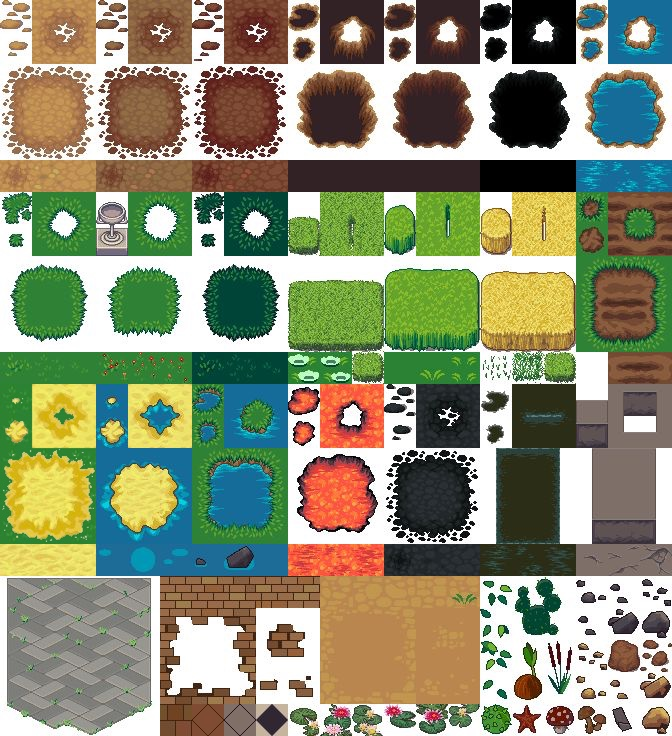
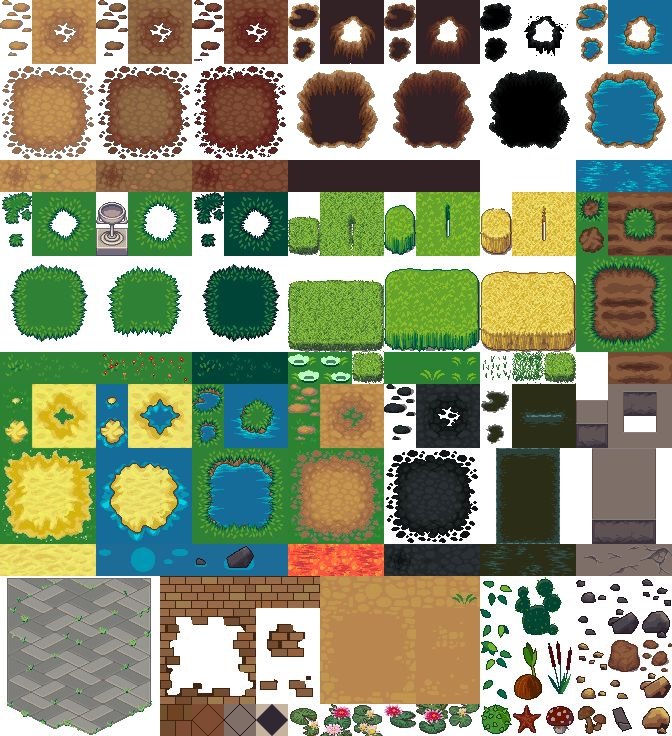
Smoothing algorithm applies to 4 major tile types

Changed region(s): [[0.4062, 0.5, 0.5938, 0.75], [0.75, 0.0, 0.875, 0.0938], [0.6875, 0.2188, 0.875, 0.2812]]

diff --git a/src/play/MapLayer.js b/src/play/MapLayer.js
@@ -39,16 +39,16 @@ var MapLayer = cc.Layer.extend({
 
             switch (terrainAsInt) {
                 case 0:
-                    this.tileArray[i] = 323;
+                    this.tileArray[i] = 323; //water
                     break;
                 case 1:
-                    this.tileArray[i] = 320;
+                    this.tileArray[i] = 320; //sand
                     break;
                 case 2:
-                    this.tileArray[i] = 191;
+                    this.tileArray[i] = 191; //grass
                     break;
                 case 3:
-                    this.tileArray[i] = 197;
+                    this.tileArray[i] = 326; //earth
                     break;
                 case 4:
                     this.tileArray[i] = 71;
@@ -70,6 +70,7 @@ var MapLayer = cc.Layer.extend({
         
         this.smoothTiles(320,323,256,277,279,278,258,257,342,340,300,298,299,341,319,321); //water/sand smoothing
         this.smoothTiles(320,191,253,274,276,275,255,254,339,337,297,295,296,338,316,318); //sand/grass smoothing
+        this.smoothTiles(326,191,262,283,285,284,264,263,348,346,306,304,305,347,325,327); //grass/dirt smoothing
 
         /*
         p: first tile type
